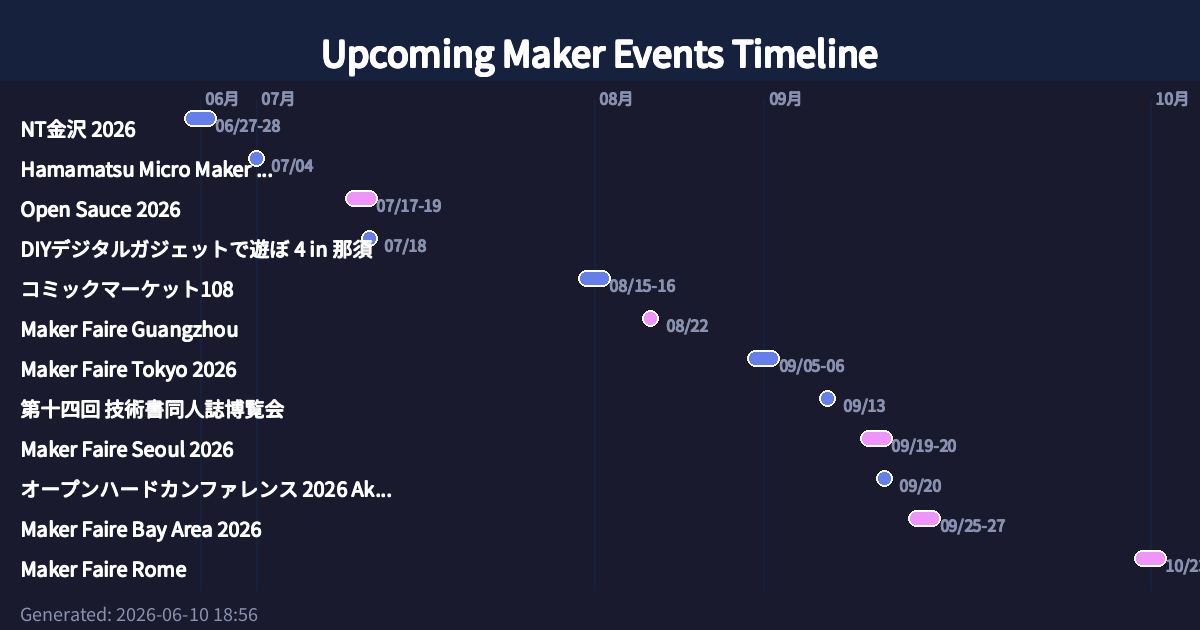
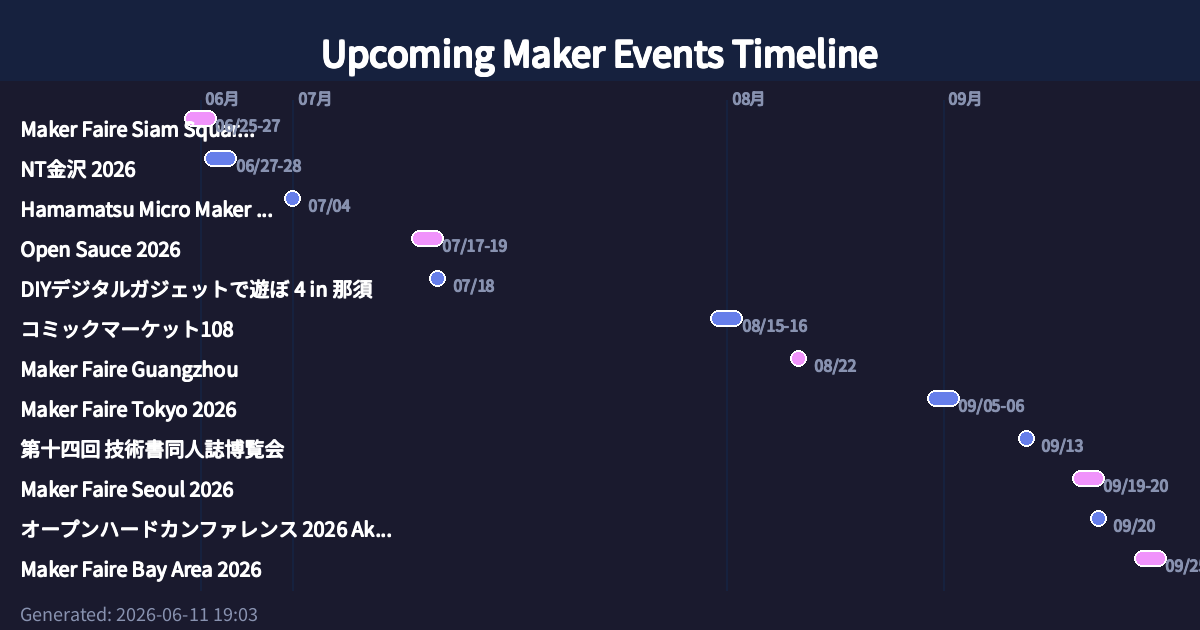
サイト更新
🤖 自動更新 - 2026-06-11 19:03:10 UTC

Generated with [Claude Code](https://claude.ai/code)

diff --git a/index.html b/index.html
@@ -7,7 +7,7 @@
     
     <!-- OGP Meta Tags for Social Media Sharing -->
     <meta property="og:title" content="Upcoming Maker Events | 今後のメイカーイベント">
-    <meta property="og:description" content="世界中のメイカーイベント情報を一覧で確認。Maker Faire、NT、技術書典など21件のイベント情報を掲載。 | Discover upcoming maker events worldwide including Maker Faires, technical conferences, and maker gatherings.">
+    <meta property="og:description" content="世界中のメイカーイベント情報を一覧で確認。Maker Faire、NT、技術書典など23件のイベント情報を掲載。 | Discover upcoming maker events worldwide including Maker Faires, technical conferences, and maker gatherings.">
     <meta property="og:type" content="website">
     <meta property="og:url" content="https://shinichi-ohki.github.io/maker_event/">
     <meta property="og:image" content="https://shinichi-ohki.github.io/maker_event/ogp_image.png">
@@ -17,11 +17,11 @@
     <!-- Twitter Card -->
     <meta name="twitter:card" content="summary_large_image">
     <meta name="twitter:title" content="Upcoming Maker Events | 今後のメイカーイベント">
-    <meta name="twitter:description" content="世界中のメイカーイベント情報を一覧で確認。21件のイベント情報を掲載。">
+    <meta name="twitter:description" content="世界中のメイカーイベント情報を一覧で確認。23件のイベント情報を掲載。">
     <meta name="twitter:image" content="https://shinichi-ohki.github.io/maker_event/ogp_image.png">
     
     <!-- Standard Meta Tags -->
-    <meta name="description" content="世界中のメイカーイベント情報を一覧で確認。Maker Faire、NT、技術書典など21件のイベント情報を掲載。">
+    <meta name="description" content="世界中のメイカーイベント情報を一覧で確認。Maker Faire、NT、技術書典など23件のイベント情報を掲載。">
     <meta name="keywords" content="Maker Faire, メイカーイベント, 技術イベント, NT, 技術書典, DIY, ハードウェア, プログラミング">
     <meta name="author" content="Maker Events Team">
     <style>
@@ -504,6 +504,23 @@
                     </div>
                 </div>
                 
+                <div class="event-card">
+                    <div class="event-image">
+                        
+                            🛠️
+                        
+                    </div>
+                    <div class="event-content">
+                        
+                        <div class="event-date">2027年06月26日〜27日</div>
+                        
+                        <h3 class="event-title">NT金沢 2027(予定)</h3>
+                        <p class="event-location">金沢駅東もてなしドーム地下広場, 金沢, Japan</p>
+                        
+                        
+                    </div>
+                </div>
+                
             </div>
         </section>
         
@@ -512,6 +529,25 @@
         <section class="international-events">
             <h2 class="section-title">🌍 International Events | 海外のイベント</h2>
             <div class="events-grid">
+                
+                <div class="event-card">
+                    <div class="event-image">
+                        
+                            🛠️
+                        
+                    </div>
+                    <div class="event-content">
+                        
+                        <div class="event-date">June 25-27, 2026</div>
+                        
+                        <h3 class="event-title">Maker Faire Siam Square 2026</h3>
+                        <p class="event-location">サイアム・スクエア, バンコク(タイ), Thailand</p>
+                        
+                        
+                        <a href="https://www.facebook.com/MakerAssociationThailand/" class="event-link" target="_blank">Learn More</a>
+                        
+                    </div>
+                </div>
                 
                 <div class="event-card">
                     <div class="event-image">
@@ -621,7 +657,7 @@
     </div>
     
     <footer style="text-align: center; margin-top: 1rem; padding: 1rem; color: #666; font-size: 0.8rem; border-top: 1px solid #e0e0e0;">
-        <p>Last updated: 2026-06-11 03:56 JST</p>
+        <p>Last updated: 2026-06-12 04:03 JST</p>
     </footer>
 </body>
 </html>